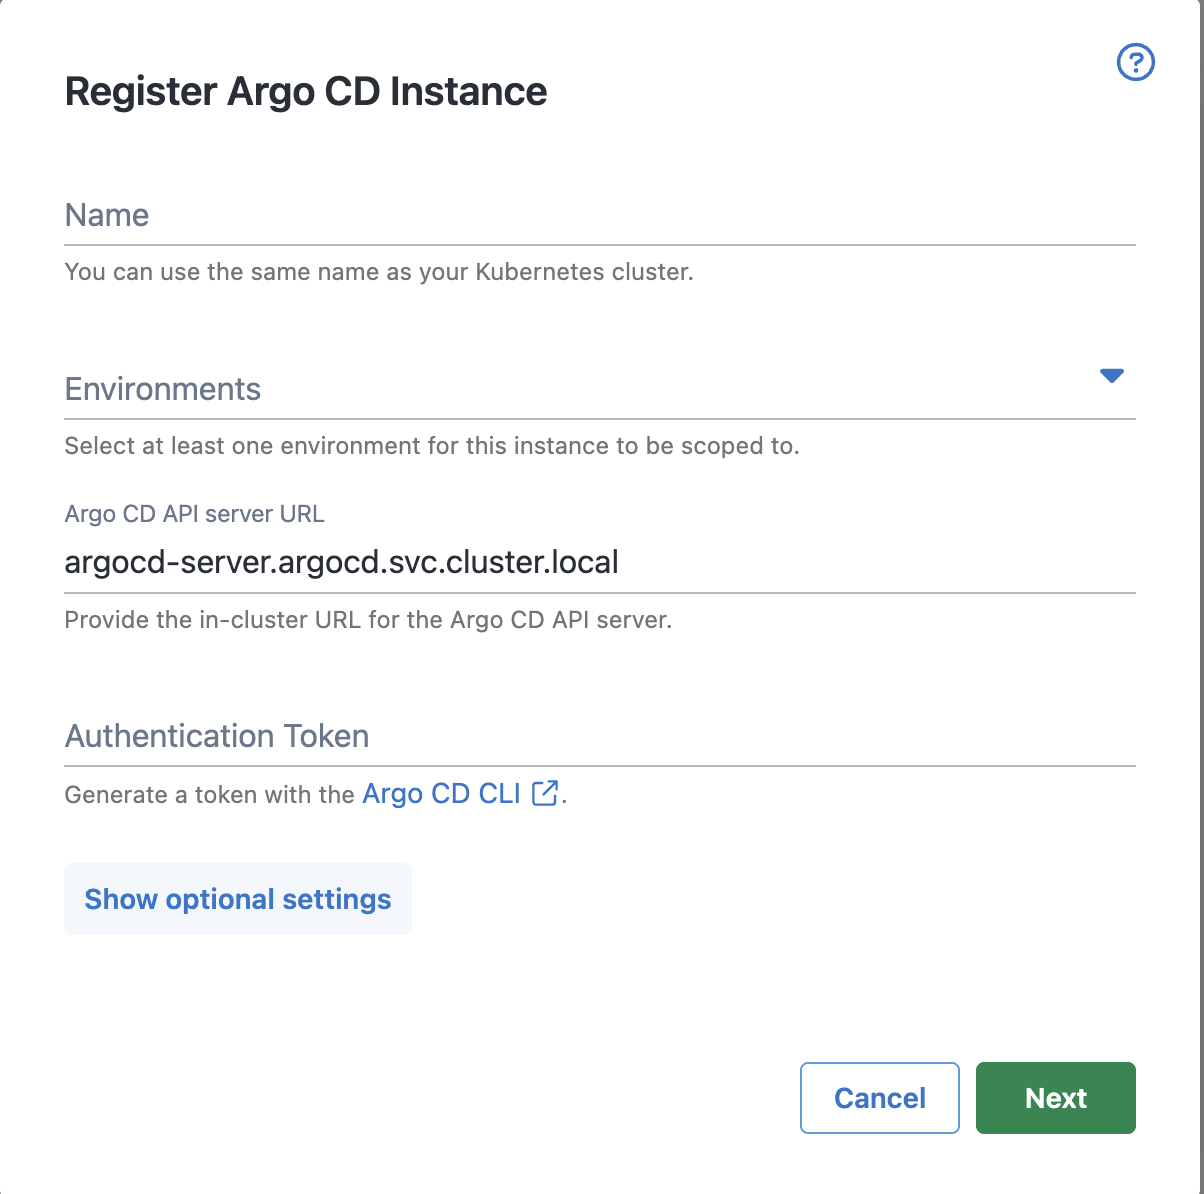
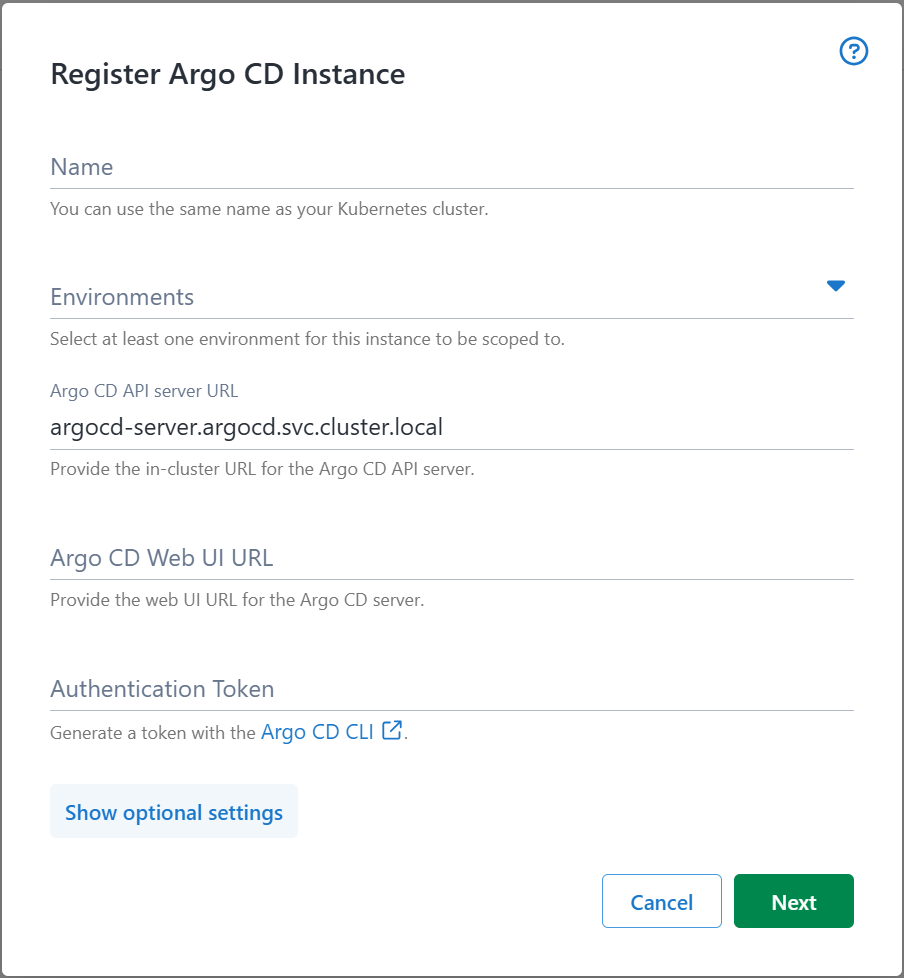
Update images and some text

diff --git a/src/pages/docs/argo-cd/instances/index.md b/src/pages/docs/argo-cd/instances/index.md
@@ -8,16 +8,19 @@ navOrder: 10
 hideInThisSectionHeader: true
 ---
 
-Argo CD Instances are a first class infrastructure component within Octopus Deploy.
+An Argo CD instance is represented in Octopus as a separate Infrastructure component, distinct from Deployment Targets or Workers.
 
-To connect OctopusDeploy to an Argo CD instance, a network gateway must first be installed in your cluster.
+Each Argo CD instance in Octopus represents a connection to a running Argo CD instance and is used as the anchor in which Argo CD applications are retrieved.
 
-The gateway creates an ssl-encrypted, grpc outgoing connection to OctopusDeploy, and routes data from Argo CD to your Octopus
-instance. This network topology is considered safer than leaving an open, listening connection on your Argo CD instance.
+To connect Octopus Deploy to an Argo CD instance, a network gateway must first be installed in your Kubernetes cluster, the `Octopus Argo CD Gateway`.,
+
+The gateway creates a TLS-encrypted, outgoing gRPC connection from the host Kubernetes cluster to Octopus Server, and routes data from Argo CD to your Octopus
+Server instance. This gateway means that no publicly accessible HTTP/gRPC URL is required for communication, providing added security.
 
 A gateway is required for each Argo CD Instance being connected to Octopus.
 
-## The Octopus-ArgoCD-Gateway
+## Installing the Octopus Argo CD Gateway
+
 The gateway is installed using [Helm](https://helm.sh) via the [octopusdeploy/octopus-argocd-gateway-chart](https://hub.docker.com/r/octopusdeploy/octopus-argocd-gateway-chart) chart.
 
 To simplify this, there is an installation wizard in Octopus to generate the required values.
@@ -30,27 +33,56 @@ kubectl config view
 ```
 :::
 
-### Installation
-1. Navigate to **Infrastructure ➜ Argo CD Instances**, and click "Add Argo CD Instance"
-2. This launches the Add new Argo CD Instance dialog
+### Configuration 
+1. Navigate to **Infrastructure ➜ Argo CD Instances**, and click **Add Argo CD Instance**
+2. This launches the Register Argo CD Instance dialog
 
 :::figure
 ![Octopus-Argo-Gateway Wizard Config Page](/docs/img/argo-cd/gateway-wizard-config.png)
 :::
 
 1. Enter the unique name for the instance. This name is used to generate the Kubernetes namespace, as well as the Helm release name.
-2. Select at least 1 environment the instance will be responsible for servicing.
-3. Set the Argo instances 'in-cluster' URL - the default value will work for many cases.
-4. Add URL used to access Argo's web frontend (this is optional, but will add value during deployment investigations)
-5. Use the Argo CD CLI too to generate an Authentication token, and add it to the dialog
+2. Select at least one [environment](https://octopus.com/docs/infrastructure/environments) the instance will be responsible for servicing.
+3. If required, change the [in-cluster](https://kubernetes.io/docs/concepts/services-networking/dns-pod-service/#services) URL of the Argo CD API Server service. In many cases the default value provided will work.
+4. Optionally, add the URL used to access Argo CD's web frontend. This will be used for linking from Octopus to Argo CD to aid with deployment investigations.
+5. A valid Argo CD JWT authentication token is required. To generate this, you can use the [Argo CD CLI](https://argo-cd.readthedocs.io/en/stable/user-guide/commands/argocd_account_generate-token/).
 6. Press "Next" to move to the next screen
 
+#### Installation helm command
+
+At the end of the wizard, Octopus generates a Helm command that you copy and paste into a terminal connected to the target cluster. After it's executed, Helm installs all the required resources and starts the gateway.
+
+:::figure
+![Octopus Argo CD Gateway Wizard Helm command Page](/docs/img/argo-cd/gateway-wizard-helm-comand.png)
+:::
+
+:::div{.hint}
+The helm command includes a 1 hour bearer token that is used when the gateway first initializes, to register itself with Octopus Server.
+:::
+
+:::div{.hint}
+The terminal Kubernetes context must have enough permissions to create namespaces and install resources into that namespace. If you wish to install the gateway into an existing namespace, remove the `--create-namespace` flag and change the value after `--namespace`
+:::
+
+If left open, the installation dialog waits for the gateway to establish a connection and run a health check. Once successful, the Octopus Argo CD gateway is ready for use!
+
+:::figure
+![Octopus Argo CD Gateway Wizard successful installation](/docs/img/argo-cd/gateway-wizard-success.png)
+:::
+
+:::div{.hint}
+A successful health check indicates that the gateway can successfully connect to the target Argo CD instance and is communicating with Octopus Server.
+:::
+
+
 ### Health Checks and Updating
-The Octopus performs health checks on the gateway in a manner similar to that used for workers and deployment targets.
+
+Octopus performs health checks on the gateway in a manner similar to that used for workers and deployment targets.
 
 The gateway uses an internal cronjob to ensure it is always running the latest version.
 
-## System Configuration
+## System Configuration`
+
 Before executing deployment processes against your Argo CD Applications the relationship between Octopus Projects/Environments/Tenants
 and Argo CD Applications must be defined. This is to solve the problem:
 

diff --git a/src/pages/docs/argo-cd/index.md b/src/pages/docs/argo-cd/index.md
@@ -9,14 +9,16 @@ navSection: Argo CD
 navOrder: 28
 hideInThisSectionHeader: true
 ---
-Octopus makes Argo CD easier to use with environment modeling and deployment orchestration built-in. Automate everything 
+
+Octopus makes it easy to improve your Argo CD deployments with  environment modeling and deployment orchestration built-in. Automate everything 
 from environment promotion and compliance to tests and change management.
 
-Octopus Deploy integrates with Argo CD at three key touch-points:
-1. Creating a connection to Argo CD instances and cross mapping Argo Applications to Octopus Projects
-2. Deployment steps which can update the git repositories backing the mapped Argo Applications
-3. Dashboards and live status displays, showing how deployments outcomes, and currently deployed resources
+Octopus makes integrating and deploying with Argo CD simple:
+1. Creating a connection to Argo CD instances and cross mapping Argo CD Applications to Octopus Projects
+2. Deployment steps which can update the Git repositories backing the mapped Argo CD Applications
+3. Dashboards and live status displays, showing the result of deployment, and the status of the deployed applications and resources
 
 The pages in this section expands each of these areas, while also providing useful resources and tutorials to get you
-up and running with Argo CD faster.
+up and running with Argo CD in Octopus faster.
+
 ## Learn more

diff --git a/src/pages/docs/argo-cd/steps/index.md b/src/pages/docs/argo-cd/steps/index.md
@@ -35,7 +35,7 @@ There are 2 annotations which may be required:
 1. `argo.octopus.com/image-replace-paths`
     * Required
     * Comma separated string of 'Image Path Definitions'
-    * Each `Image Path definition` is a helm-value formatted string, which when evaluated would contain a full container refernce
+    * Each `Image Path definition` is a helm-value formatted string, which when evaluated would contain a full container reference
 2. `arg.octopus.com/image-replace-alias
     * Optional
     * Required where more than 1 Values file is referenced in the list of the application's sources
